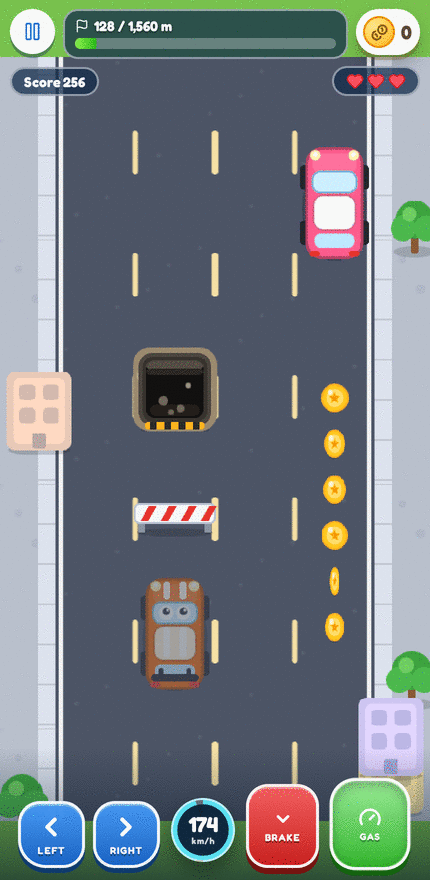
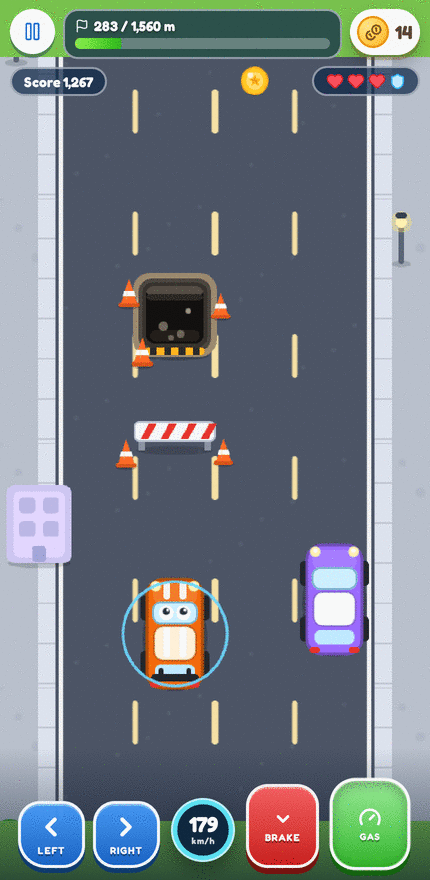
Put the cones back on the construction site
The cones were never the problem — cone-shaped obstacles spawning on their own in
the middle of the road were. They are now part of the road-works art itself:

- New drawCone() helper bakes cones into the blocker and pit textures, so a cone
  can only ever appear as part of a site and always arrives with it.
- Blocker: the striped barrier now sits between two cones fencing the closed lane.
- Pit: three cones stand around the cut (both sides plus the near lip).
- Hitboxes stay on the bar and on the hole (explicit body offsets), so cones are
  pure scenery — verified: pit contact = jolt + clean run lost, no life; barrier
  contact = crash; no page errors.
- Refreshed the gameplay screenshots (README + install prompt) and updated the
  README/CHANGELOG wording.

diff --git a/src/game/RacingScene.ts b/src/game/RacingScene.ts
@@ -139,6 +139,32 @@ class RacingScene extends Phaser.Scene {
     g.destroy()
   }
 
+  /**
+   * A traffic cone with its base at (x, y). Cones are only ever drawn *into* a
+   * road-works texture (the blocker and the pit), so they always arrive as part
+   * of a construction site and never as a lone obstacle on the road.
+   */
+  private drawCone(g: Phaser.GameObjects.Graphics, x: number, y: number, s = 1): void {
+    g.fillStyle(0x000000, 0.2)
+    g.fillEllipse(x, y - 1 * s, 24 * s, 7 * s)
+    g.fillStyle(0xd9541b, 1)
+    g.fillRoundedRect(x - 11 * s, y - 5 * s, 22 * s, 5 * s, 2 * s)
+    g.fillStyle(0xff6a26, 1)
+    g.fillTriangle(x, y - 30 * s, x - 8.5 * s, y - 4 * s, x + 8.5 * s, y - 4 * s)
+    g.fillStyle(0xffffff, 1)
+    g.fillPoints(
+      [
+        { x: x - 5.4 * s, y: y - 17 * s },
+        { x: x + 5.4 * s, y: y - 17 * s },
+        { x: x + 7 * s, y: y - 11.5 * s },
+        { x: x - 7 * s, y: y - 11.5 * s },
+      ],
+      true,
+    )
+    g.fillStyle(0xffb27a, 0.5)
+    g.fillTriangle(x - 1.4 * s, y - 26 * s, x - 3.2 * s, y - 8 * s, x - 1.4 * s, y - 8 * s)
+  }
+
   private makeSmallTextures(): void {
     if (!this.textures.exists('coin')) {
       const g = this.add.graphics()
@@ -165,19 +191,22 @@ class RacingScene extends Phaser.Scene {
       g.destroy()
     }
     if (!this.textures.exists('barrier')) {
+      // The blocker as it looks on a real closed lane: the striped barrier with
+      // cones fencing off either side of it.
       const g = this.add.graphics()
+      const ox = 18
       g.fillStyle(0x000000, 0.16)
-      g.fillEllipse(44, 32, 80, 9)
+      g.fillEllipse(44 + ox, 32, 80, 9)
       g.fillStyle(0x8a93a3, 1)
-      g.fillRect(6, 12, 7, 20)
-      g.fillRect(75, 12, 7, 20)
+      g.fillRect(6 + ox, 12, 7, 20)
+      g.fillRect(75 + ox, 12, 7, 20)
       g.fillStyle(0xf4f6fa, 1)
-      g.fillRoundedRect(2, 2, 84, 20, 5)
+      g.fillRoundedRect(2 + ox, 2, 84, 20, 5)
       g.lineStyle(2, 0xb9c2d1, 1)
-      g.strokeRoundedRect(2, 2, 84, 20, 5)
+      g.strokeRoundedRect(2 + ox, 2, 84, 20, 5)
       g.fillStyle(0xe6352b, 1)
       for (let i = 0; i < 4; i++) {
-        const x = 8 + i * 21
+        const x = 8 + ox + i * 21
         g.fillPoints(
           [
             { x, y: 20 },
@@ -188,52 +217,61 @@ class RacingScene extends Phaser.Scene {
           true,
         )
       }
-      g.generateTexture('barrier', 88, 36)
+      this.drawCone(g, 11, 50)
+      this.drawCone(g, 113, 47, 0.92)
+      g.generateTexture('barrier', 124, 56)
       g.destroy()
     }
     if (!this.textures.exists('pit')) {
       // An open construction pit cut into the asphalt: sandy spoil ring, darker
       // cut edge, a black shaft with a lit far wall, rubble on the floor and
-      // warning tape across the near lip.
+      // warning tape across the near lip — with cones standing around the cut,
+      // exactly like a real site.
       const g = this.add.graphics()
+      const ox = 16
+      const oy = 10
       g.fillStyle(0x000000, 0.22)
-      g.fillEllipse(44, 86, 72, 12)
+      g.fillEllipse(44 + ox, 86 + oy, 72, 12)
       // dug-up spoil outside the cut
       g.fillStyle(0x9c8a6f, 1)
-      g.fillRoundedRect(0, 0, 88, 88, 18)
+      g.fillRoundedRect(0 + ox, 0 + oy, 88, 88, 18)
       g.fillStyle(0xb3a184, 1)
-      g.fillCircle(10, 30, 6)
-      g.fillCircle(78, 44, 5)
-      g.fillCircle(16, 62, 4)
-      g.fillCircle(72, 14, 4)
+      g.fillCircle(10 + ox, 30 + oy, 6)
+      g.fillCircle(78 + ox, 44 + oy, 5)
+      g.fillCircle(16 + ox, 62 + oy, 4)
+      g.fillCircle(72 + ox, 14 + oy, 4)
       // cut asphalt edge
       g.fillStyle(0x4a453f, 1)
-      g.fillRoundedRect(6, 6, 76, 76, 14)
+      g.fillRoundedRect(6 + ox, 6 + oy, 76, 76, 14)
       g.fillStyle(0x38332e, 1)
-      g.fillRoundedRect(10, 10, 68, 68, 11)
+      g.fillRoundedRect(10 + ox, 10 + oy, 68, 68, 11)
       // the shaft
       g.fillStyle(0x121110, 1)
-      g.fillRoundedRect(14, 14, 60, 60, 9)
+      g.fillRoundedRect(14 + ox, 14 + oy, 60, 60, 9)
       // lit far wall (top) then a darker band so it reads as depth
       g.fillStyle(0x554e45, 1)
-      g.fillRoundedRect(14, 14, 60, 11, 8)
+      g.fillRoundedRect(14 + ox, 14 + oy, 60, 11, 8)
       g.fillStyle(0x2c2824, 1)
-      g.fillRoundedRect(14, 22, 60, 7, 5)
+      g.fillRoundedRect(14 + ox, 22 + oy, 60, 7, 5)
       g.fillStyle(0x241f1b, 1)
-      g.fillRoundedRect(18, 60, 52, 12, 6)
+      g.fillRoundedRect(18 + ox, 60 + oy, 52, 12, 6)
       // rubble on the floor
       g.fillStyle(0x6f675b, 1)
-      g.fillCircle(32, 56, 5)
-      g.fillCircle(50, 64, 4)
-      g.fillCircle(40, 68, 3)
+      g.fillCircle(32 + ox, 56 + oy, 5)
+      g.fillCircle(50 + ox, 64 + oy, 4)
+      g.fillCircle(40 + ox, 68 + oy, 3)
       g.fillStyle(0x9a9184, 1)
-      g.fillCircle(58, 40, 3)
+      g.fillCircle(58 + ox, 40 + oy, 3)
       // warning tape across the near lip
       g.fillStyle(0xffb31f, 1)
-      g.fillRoundedRect(13, 78, 62, 8, 3)
+      g.fillRoundedRect(13 + ox, 78 + oy, 62, 8, 3)
       g.fillStyle(0x2b2b2b, 1)
-      for (let i = 0; i < 4; i++) g.fillRect(18 + i * 15, 78, 7, 8)
-      g.generateTexture('pit', 88, 88)
+      for (let i = 0; i < 4; i++) g.fillRect(18 + ox + i * 15, 78 + oy, 7, 8)
+      // cones standing around the hole
+      this.drawCone(g, 12, 46)
+      this.drawCone(g, 108, 58, 0.92)
+      this.drawCone(g, 26, 108, 1.02)
+      g.generateTexture('pit', 120, 112)
       g.destroy()
     }
     if (!this.textures.exists('spark')) {
@@ -633,8 +671,15 @@ class RacingScene extends Phaser.Scene {
     ob.setAlpha(1)
     ob.setData('kind', kind)
     const body = ob.body as Phaser.Physics.Arcade.Body
-    if (kind === 'barrier') body.setSize(80, 24)
-    else body.setSize(64, 66)
+    if (kind === 'barrier') {
+      // hitbox = the striped bar only; the cones either side are decoration
+      body.setSize(80, 24)
+      body.setOffset(22, 0)
+    } else {
+      // hitbox = the open cut; the spoil ring and the cones don't crash you
+      body.setSize(64, 66)
+      body.setOffset(28, 21)
+    }
     return ob
   }
 

diff --git a/README.md b/README.md
@@ -23,14 +23,15 @@ finger anywhere on screen.
 
 **Goal:** drive the full distance to finish a level. Collect coins, dodge traffic
 and the road works. Three crashes end the run — a **road blocker** costs a life,
-driving into an open **construction pit** jolts the car and kills your clean run.
+driving into an open **construction pit** jolts the car and kills your clean run. Cones
+are scenery: they only ever appear as part of a road-works site, never on their own.
 Earn up to **3 stars** per level: finish + coin goal + clean (crash-free) driving.
 Near misses give bonus points!
 
 ## Features
 
 - **Reference-style home screen** — original AI-generated tropical town + cute 3D-style hero car with idle animation, top HUD (profile / coins / hearts with a *real* regeneration timer), treasure-milestone progress bar, reward Boost selector, big green `LEVEL n` button and a 5-tab bottom navigation. Every button works.
-- **Real gameplay (Phaser 3)** — scrolling themed roads, frame-rate independent steering/acceleration/braking, traffic cars & trucks that keep a gap, queue and overtake, construction road works (blockers + freshly dug pits), spinning coin chains, near-miss bonuses, crash invulnerability/blink, camera shake, particles, countdown, pause and auto-pause when the tab is hidden.
+- **Real gameplay (Phaser 3)** — scrolling themed roads, frame-rate independent steering/acceleration/braking, traffic cars & trucks that keep a gap, queue and overtake, construction road works (a blocker with cones fencing the closed lane, plus freshly dug pits ringed with cones), spinning coin chains, near-miss bonuses, crash invulnerability/blink, camera shake, particles, countdown, pause and auto-pause when the tab is hidden.
 - **50 levels** — Sunny Streets all the way to Champion's Highway: every level has its own name, distance, coin goal, traffic density/speed and roadside theme (palms, cacti, city buildings…), ramping smoothly from 1,200 m to 7,080 m, plus an **Endless mode** with ramping difficulty and a saved best score. The level picker opens scrolled to your current level.
 - **Progression & economy** — coins, hearts (start a run = 1 heart, finishing refunds it, +1 every 90 s, or buy for 50 coins), level unlocks & stars, Boost ×1/×2/×3 (bigger rewards, busier roads), 7-day daily rewards, a repeatable 250-coin treasure milestone.
 - **Garage — 12 original cartoon cars** — Ruby, Officer Sky, Sunny Taxi, Minty, Blaze, Coco, Bolt, Bumble, Rocky, Comet, Apex and Nova. Each has its own hero artwork, top-down sprite styling (racing stripes, spoilers, roof racks, neon supercar glow…) and Speed/Acceleration/Handling stats that genuinely change handling & top speed, from the free starter to the 12,000-coin Nova.
@@ -160,7 +161,7 @@ All artwork is **original and generated for this project**:
 
 - `home-bg.jpg` — tropical cartoon town plaza (AI-generated, no text/UI).
 - `car-*-hero.png` — twelve cute 3/4-view cartoon cars (AI-generated on white, background cut out programmatically and optimized).
-- Top-down gameplay sprites (cars, truck, coins, road blockers, construction pits, palms, buildings…) are **drawn at runtime** with Phaser Graphics, so every car colour/variant stays perfectly consistent and the download stays small.
+- Top-down gameplay sprites (cars, truck, coins, road blockers, construction pits and cones, palms, buildings…) are **drawn at runtime** with Phaser Graphics, so every car colour/variant stays perfectly consistent and the download stays small.
 - Icons: [Lucide](https://lucide.dev). Font: **Fredoka**, bundled via
   `@fontsource-variable/fredoka` (one variable file per subset, latin first) — the game
   makes no third-party requests at all, so it renders identically offline.

diff --git a/CHANGELOG.md b/CHANGELOG.md
@@ -14,7 +14,9 @@ of the in-game **Settings** screen.
 - **Road works replaced single obstacles.** A road blocker now arrives with the
   construction site it is guarding: a freshly dug pit with a spoil ring, cut asphalt
   edge, warning tape and rubble behind it. Open pits also show up on their own.
-- **Traffic cones removed** from the road entirely, including the standalone hazards.
+- **Lone traffic cones are gone.** Cones no longer spawn on their own in the middle of
+  the road; they now only ever appear as part of a road-works site — fencing the
+  blocker and standing around the open pit — so every cone you see means something.
 - Blockers are a full crash (a life); pits jolt the car, cut its speed and spoil the
   clean run without costing a life.
 - Coin chains no longer spawn over a blocked lane.
